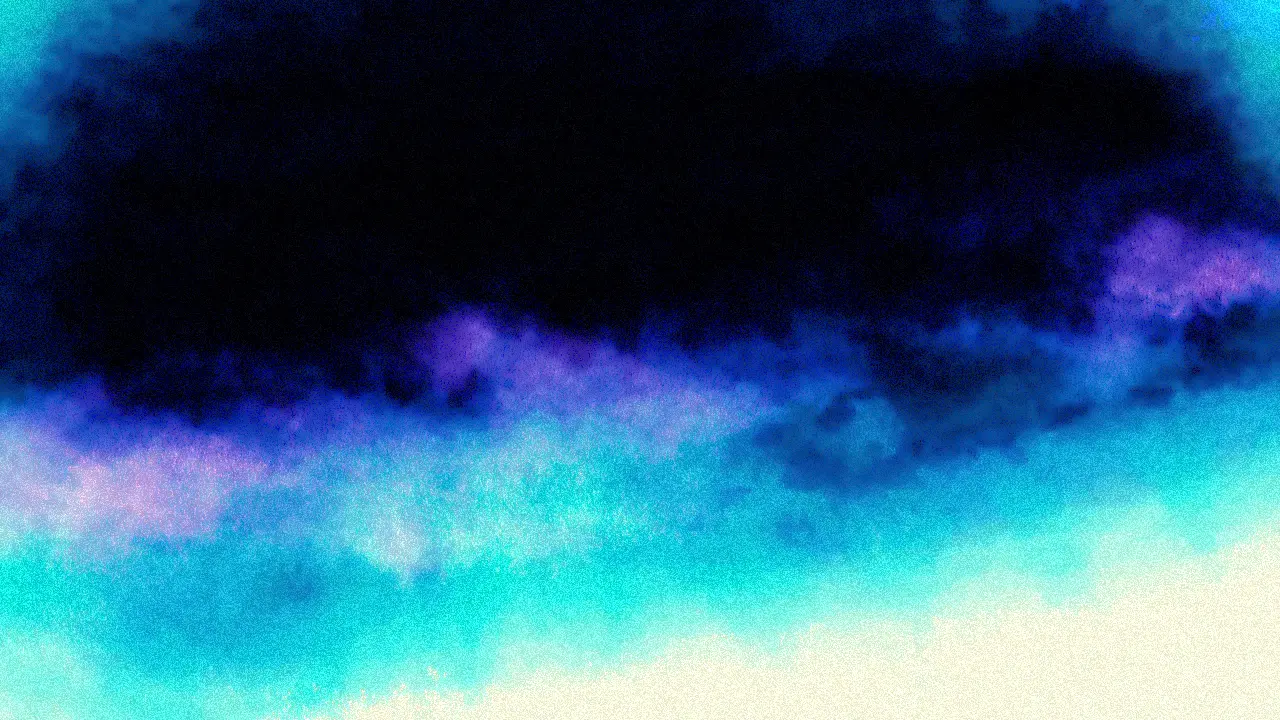
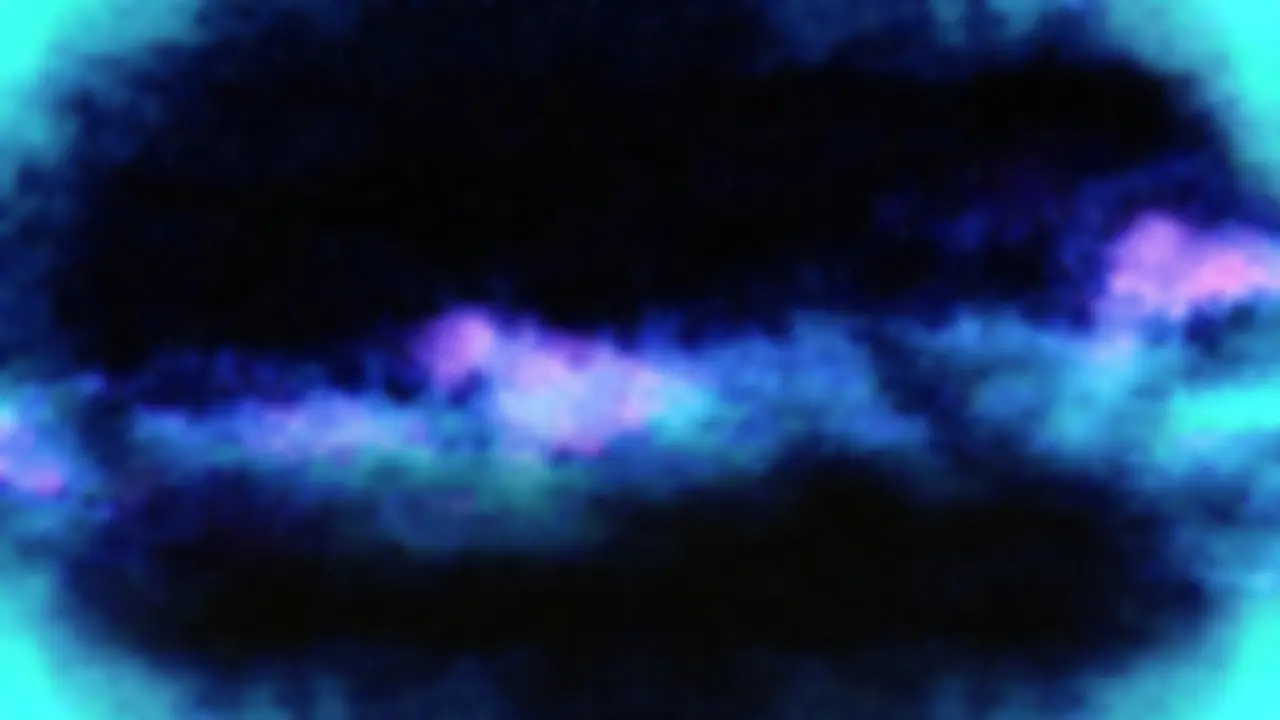
update space

diff --git a/index.html b/index.html
@@ -6,7 +6,7 @@
         html {
             height: 100%;
             width: 100%;
-            background: url("space.png") no-repeat center/cover;
+            background: url("space.webp") no-repeat center/cover;
         }
 
         body {
